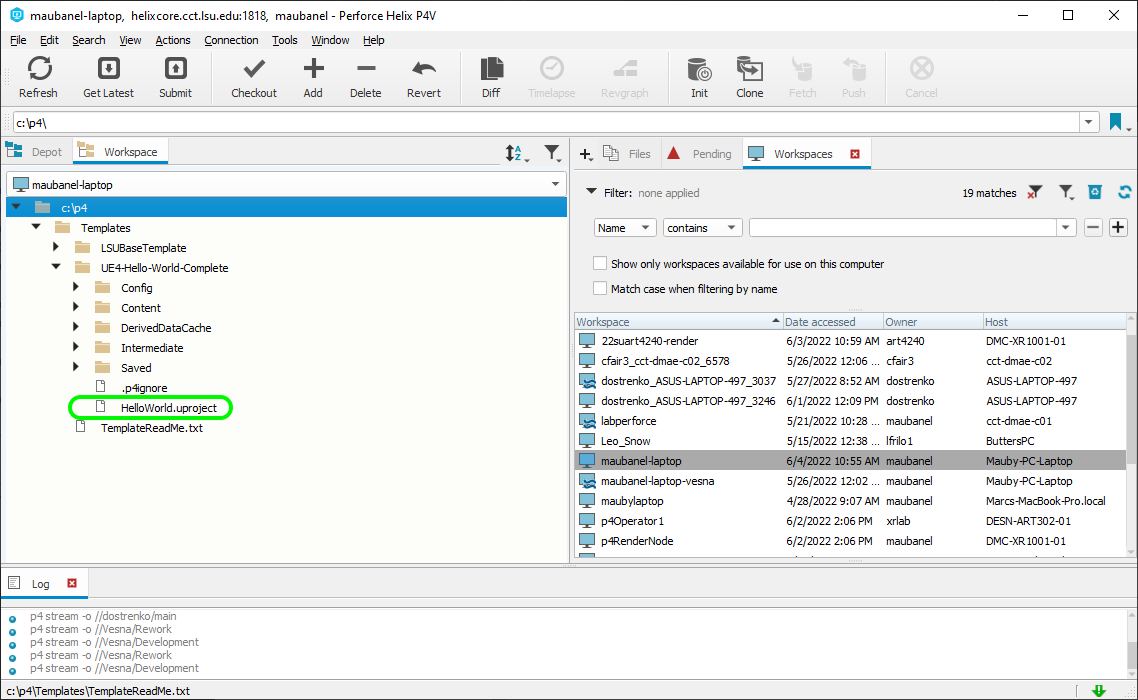
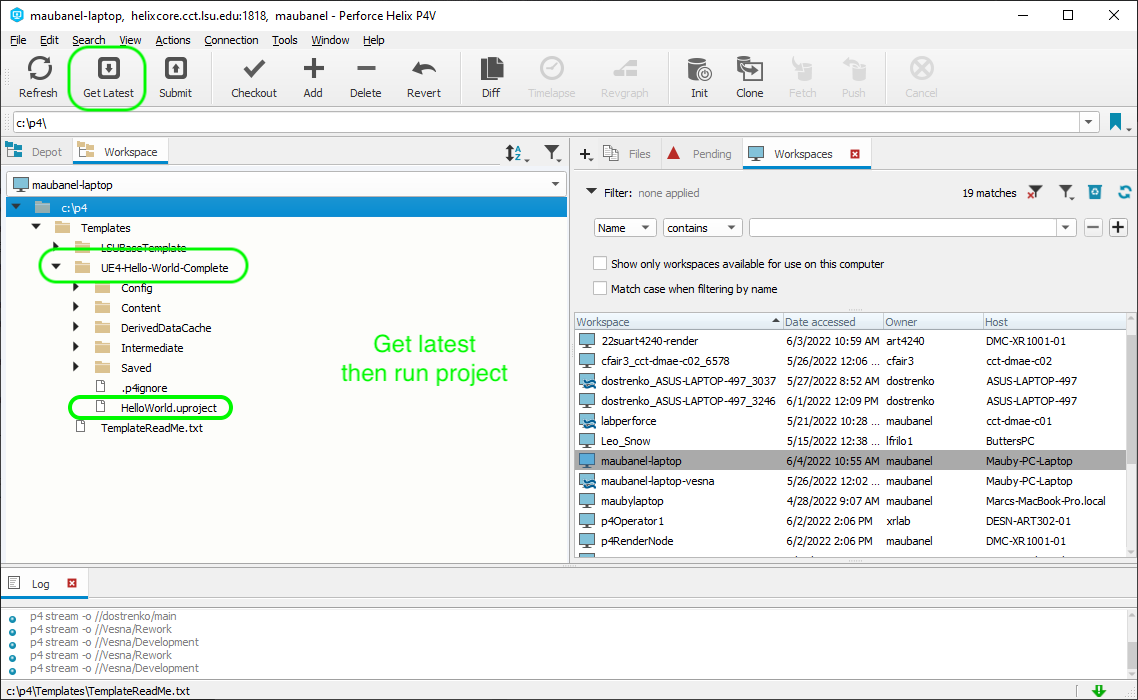
updating to latest knowlege to ue5

diff --git a/ue5-existing/README.md b/ue5-existing/README.md
@@ -15,7 +15,7 @@ This guide is for daily use of UE5 and the appropriate workflow.
 
 ##### `Step 1.`\|`P4VUE5`|:small_blue_diamond:
 
-It is best practice to have **P4V** running when working in **UE5**.  To make sure you are doing this, it is good to launch the game from within the **P4V** interface.  Double click on the `.uproject` within **P4V** to open the project.
+It is best practice to have **P4V** running when working in **UE5**.  To make sure you are doing this, it is good to launch the game from within the **P4V** interface.  Highlight the folder that holds your `.uproject` and press the <kbd>Get Latest</kbd> button. Double click on the `.uproject` within **P4V** to open the project.
 
 ![open project through Perforce](images/doubleClickProject.png)
 
